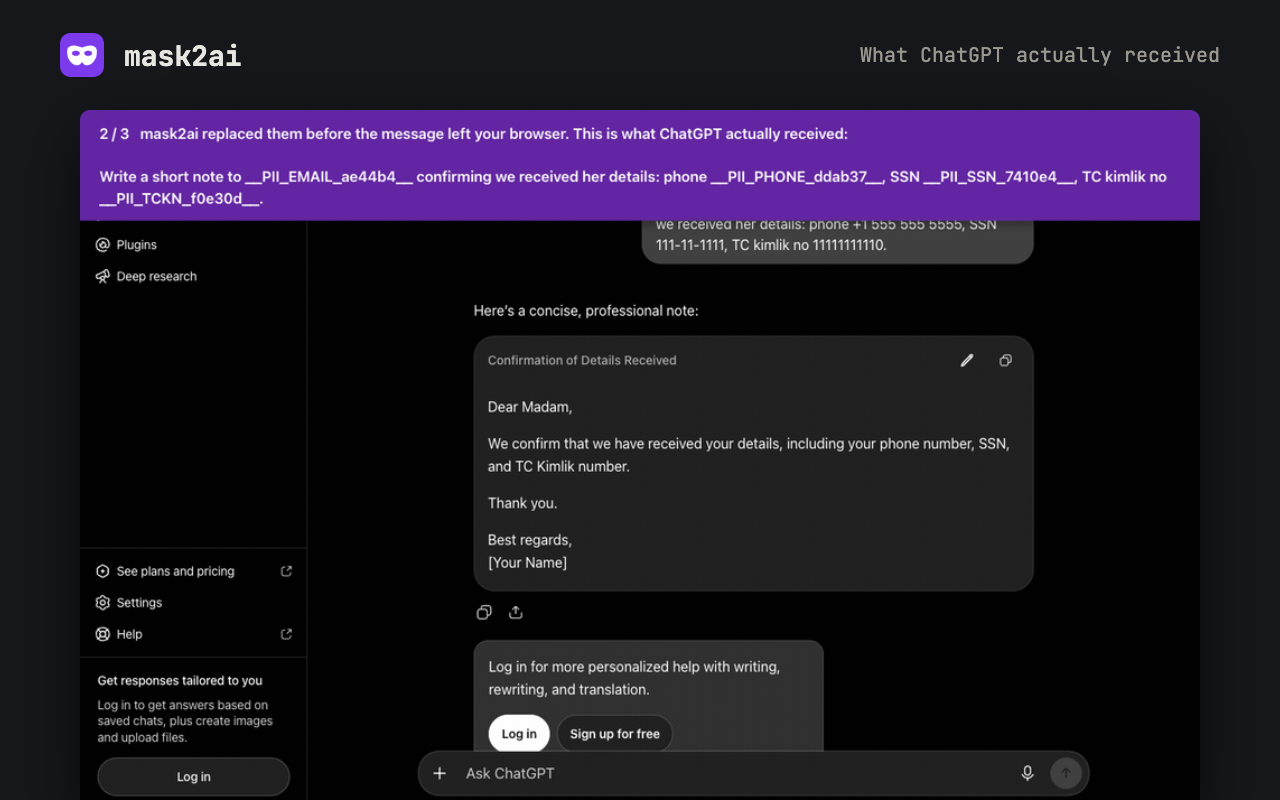
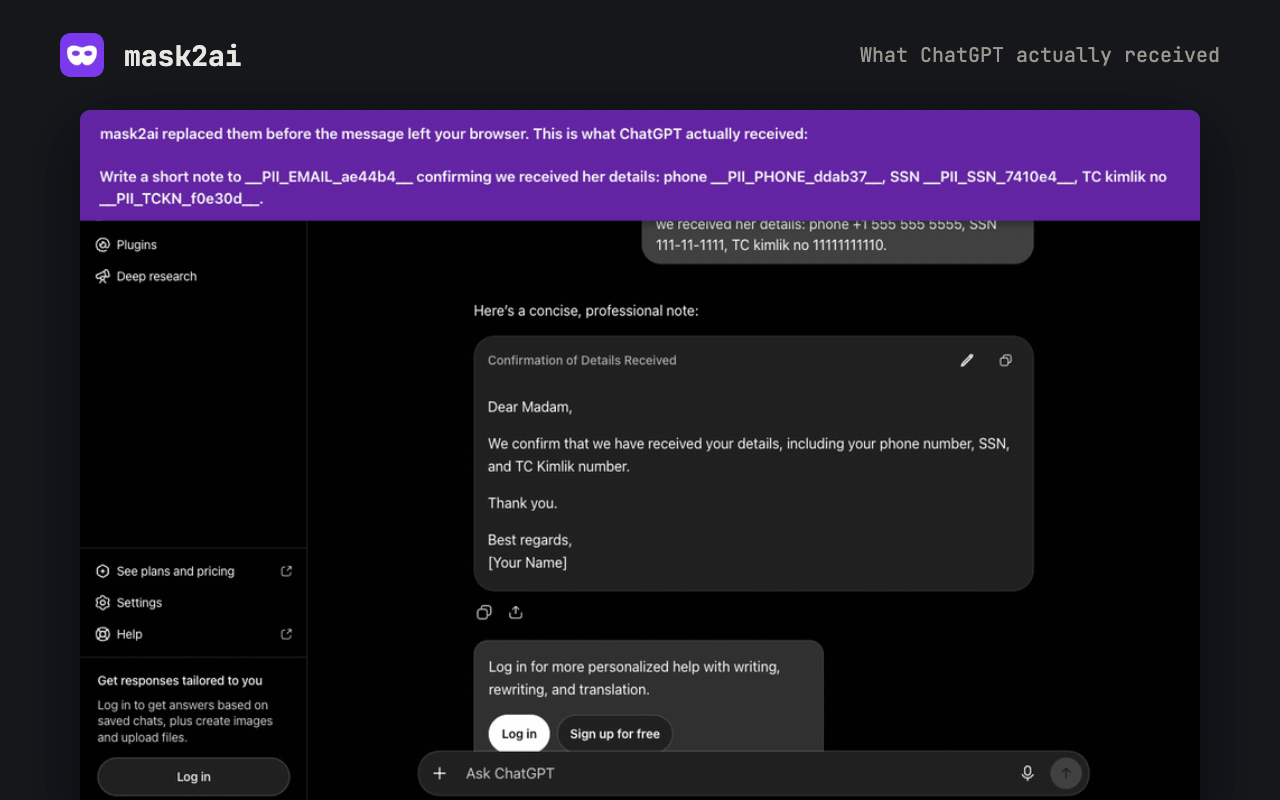
feat: Chrome Web Store submission fixes and 0.5.2

Changed region(s): [[0.0625, 0.1562, 0.6562, 0.1875], [0.1562, 0.25, 0.1875, 0.2812]]

diff --git a/demo/prove.js b/demo/prove.js
@@ -85,8 +85,9 @@ server.listen(0, '127.0.0.1', async () => {
   for (const s of leaked) for (const m of wire.matchAll(new RegExp('(?<![A-Za-z])' + escape(s) + '(?![A-Za-z])', 'gu'))) console.log(`   context: …${wire.slice(Math.max(0, m.index - 80), m.index + s.length + 40).replace(/\s+/g, ' ')}…`);
   if (leaked.length || !placeholders.size) process.exit(1);
 
-  const vision = path.join(env.CLAUDE_PLUGIN_DATA || path.join(require('os').homedir(), '.claude', 'mask2ai'), 'vision');
+  const vision = path.join(require('os').tmpdir(), 'mask2ai-proof-vision');
   if (process.platform === 'darwin') {
+    require('child_process').execFileSync('swiftc', ['-O', '-o', vision, path.join(__dirname, '..', 'hooks', 'vision.swift')]);
     console.log('\n3. a PDF containing personal data');
     const c = await requestsOf(() => claude(env, 'Read demo/customer.pdf'));
     if (c.code !== 0) fail(`claude exited ${c.code}\n${c.out}`);

diff --git a/store/listing.md b/store/listing.md
@@ -21,11 +21,17 @@ Before a message leaves claude.ai or chatgpt.com, the extension finds email addr
 - The placeholder map lives in the tab and disappears when you close it.
 - Open source, MIT: https://github.com/serkankorkut/mask2ai
 
+Not affiliated with OpenAI or Anthropic.
+
 Detection is pattern based. A bare name in free text with no title, label or matching email nearby is not detected. Full list of what is and is not caught: https://mask2ai.com/docs/
+
+## Single purpose
+
+Replace personal data in messages sent to claude.ai and ChatGPT with placeholders, and restore the real values on screen.
 
 ## Category
 
-Productivity › Workflow & Planning (or Privacy & Security if offered)
+Make Chrome Yours › Privacy & Security
 
 ## Language
 
@@ -37,15 +43,25 @@ The extension declares no permissions. It uses content scripts on https://claude
 
 ## Privacy practices (data usage form)
 
-- Does not collect or transmit user data. All processing happens in the page; the placeholder map is kept in sessionStorage and never leaves the browser.
+Google requires disclosure even when data is only processed locally, so tick these data types:
+
+- Personally identifiable information (names, emails, phone, national ID numbers, addresses)
+- Financial and payment information (card numbers, IBANs)
+- Personal communications (the chat message being sent)
+- Website content (the rendered chat page and uploaded files)
+
+Justification for each: processed only inside the open tab to find and replace personal data; never transmitted, stored outside the tab's sessionStorage, or shared.
+
+Tick all three certifications: not sold to third parties, not used for purposes unrelated to the single purpose, not used for creditworthiness or lending.
+
 - No remote code. All scripts are packaged.
 - Privacy policy URL: https://mask2ai.com/privacy/
 
 ## Assets to upload
 
-- Icon 128×128: `extension/icons/icon128.png`
+- Icon 128×128: `store/icon-128.png` (96px artwork with 16px transparent padding, as the store asks)
 - Screenshots 1280×800: `store/shot-1-wire.png` (what ChatGPT received), `store/shot-2-restored.png` (what you see). Rendered from frames of `demo/chatgpt-web.gif`; regenerate when the recording changes
-- Small promo tile 440×280: `store/promo-440x280.png`
+- Small promo tile 440×280: `store/promo-440x280.png` (logo and one placeholder example, no headline)
 
 ## Package
 
@@ -59,6 +75,7 @@ Put the 32-letter item ID from the store URL into `store/id.txt` (no newline) an
 
 1. Register at https://chrome.google.com/webstore/devconsole (one-time developer fee).
 2. New item, upload the zip.
-3. Fill the store listing from this file, upload the icon and at least one screenshot.
+3. Fill the store listing from this file, upload the icon and at least one screenshot. Homepage and support URL: https://mask2ai.com
 4. Privacy tab: answer as above, set the privacy policy URL.
-5. Submit for review. First review usually takes a few days. Content scripts on two hosts and no permissions keeps it in the fast lane.
+5. Account tab: verify the contact email and declare trader or non-trader status (EU).
+6. Submit for review. First review usually takes a few days. Content scripts on three hosts and no permissions keep it in the fast lane.

diff --git a/AGENTS.md b/AGENTS.md
@@ -12,10 +12,9 @@ Read `HANDOFF.md` first; it has the architecture, the verification commands and 
 - GitHub rulesets (added 2026-09-30 on mask2ai and mask2ai.com): `main` blocks force pushes and deletion; `v*` tags cannot be deleted, moved or overwritten. Normal pushes and new tags work. A history rewrite or re-tag needs the owner to disable the ruleset first in Settings > Rules.
 - `main` also requires a pull request approved by the code owner (`.github/CODEOWNERS` names @serkankorkut) for everyone except the owner, who can push directly. Collaborators cannot merge each other's pull requests without the owner's approval.
 - Only the owner (admin role) can create `v*` tags, so only the owner can cut a release.
-
 - Verify before claiming: `npm test`, `node demo/prove.js`, `node demo/verify-web.js`. Do not list an environment or a file type the checks do not cover.
 - No code comments unless unavoidable. No trailing whitespace. No newline at end of file.
 - Commit messages: `type: Capitalised summary`, no attribution lines.
-- Demo data is Jane Doe and John Doe with repetitive numbers.
+- Demo data is the Doe family from `demo/customers.csv`, with repetitive numbers.
 - Keep `manifest.json`, `.claude-plugin/plugin.json` and `package.json` at the same version; the site reads it.
 - After the extension is on the Chrome Web Store, write its item ID to `store/id.txt`; the site reads it for the store badges.

diff --git a/README.md b/README.md
@@ -8,7 +8,7 @@
 [![License](https://img.shields.io/github/license/serkankorkut/mask2ai?style=flat-square)](LICENSE)
 [![Stars](https://img.shields.io/github/stars/serkankorkut/mask2ai?style=flat-square)](https://github.com/serkankorkut/mask2ai/stargazers)
 
-Protects your privacy when you use AI. mask2ai keeps personal data on your machine when you work with an AI assistant. It detects names, contact details, identity numbers, payment details and addresses in what you send, replaces them with placeholders before anything leaves your device, and shows you the real values back.
+Protects your privacy when you use AI. mask2ai keeps personal data on your machine when you work with an AI assistant. It detects names, contact details, identity numbers, payment details and addresses in what you send, replaces them with placeholders before anything leaves your device, and puts the real values back on your screen.
 
 Website and docs: [mask2ai.com](https://mask2ai.com)
 

diff --git a/HANDOFF.md b/HANDOFF.md
@@ -20,7 +20,7 @@ Placeholders are `__PII_<TYPE>_<6 hex of cyrb53(value)>__`, content-addressed so
 | github.com/serkankorkut/mask2ai (public) | `~/repo/mask2ai` | plugin, extension, core, tests, demos, this file |
 | github.com/serkankorkut/mask2ai.com (public) | `~/repo/mask2ai.com` | marketing site, Cloudflare Workers assets, `public/` |
 
-Current version 0.5.1 in `manifest.json`, `.claude-plugin/plugin.json`, `package.json`. Keep the three in sync.
+Current version 0.5.2 in `manifest.json`, `.claude-plugin/plugin.json`, `package.json`. Keep the three in sync.
 
 ## Verify before claiming anything works
 
